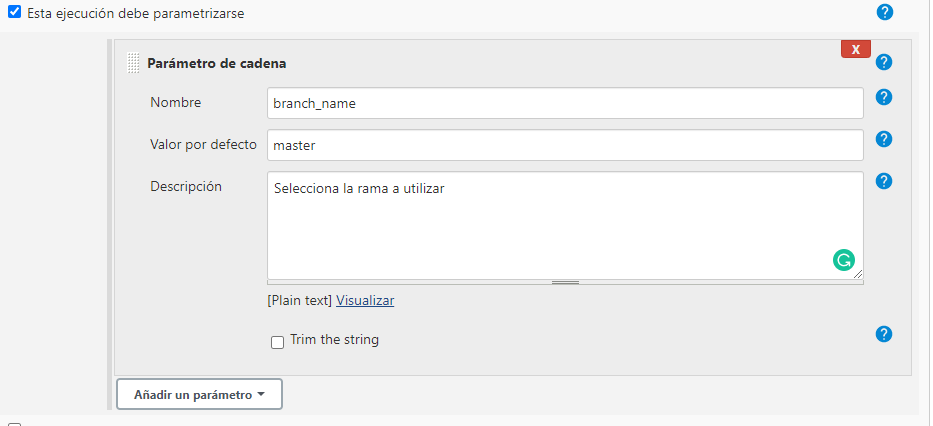
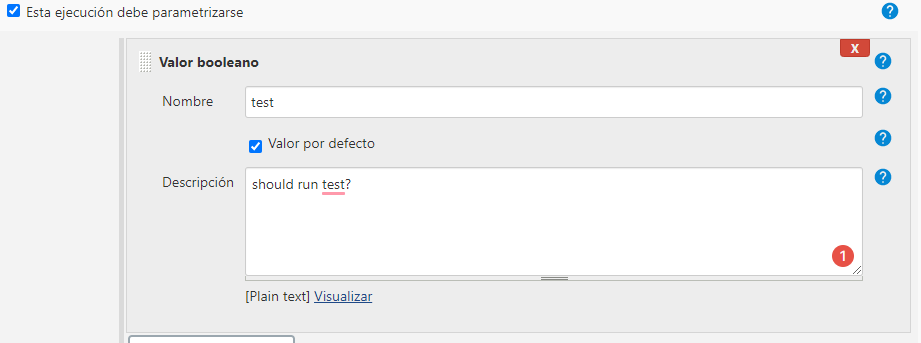
rename jenkins file

diff --git a/README.md b/README.md
@@ -97,14 +97,14 @@ pipeline {
 
 #### En la seccion general
 
-- Crea una nueva tarea <br>
+- Crea una nueva tarea de tipo multibranch pipeline<br>
 ![New Job](.images/newTask.PNG)
 
 - El name de tu tarea sera **NombreApellido**
 - Seleccion Pipeline y presiona el boton de ok
 ![Name,Pipeline](.images/Pipeline.PNG)
 - Activa la casilla esta ejecucion debe parametrizarse
-- Agrega un parametro de tipo string con la siguiente configuracion
+- Agrega un parametro de tipo booleano con la siguiente configuracion
 ![Parameters](.images/parameters.PNG)
 - Activa la casilla de github project e inserta el url de este repositorio
 ~~~
@@ -115,3 +115,9 @@ Estos son los eventos que pueden iniciar automaticamente nuestra tarea.
 Seleccionaremos la opcion: 
 ![git scm](.images/gitscm.PNG)
 Esto permitira que nuestra tarea se active al realizar un push a nuestro repositorio
+
+#### En la seccion Pipeline
+- Seleccionamos pipeline script from SCM
+- Indicamos el repositorio https://github.com/charlie83Gs/DevOpsBasicTrainingTec
+- En branches to build indicamos nuestra rama NombreAppellido
+![Pipeline config](.images/PipelineConfig.PNG)
